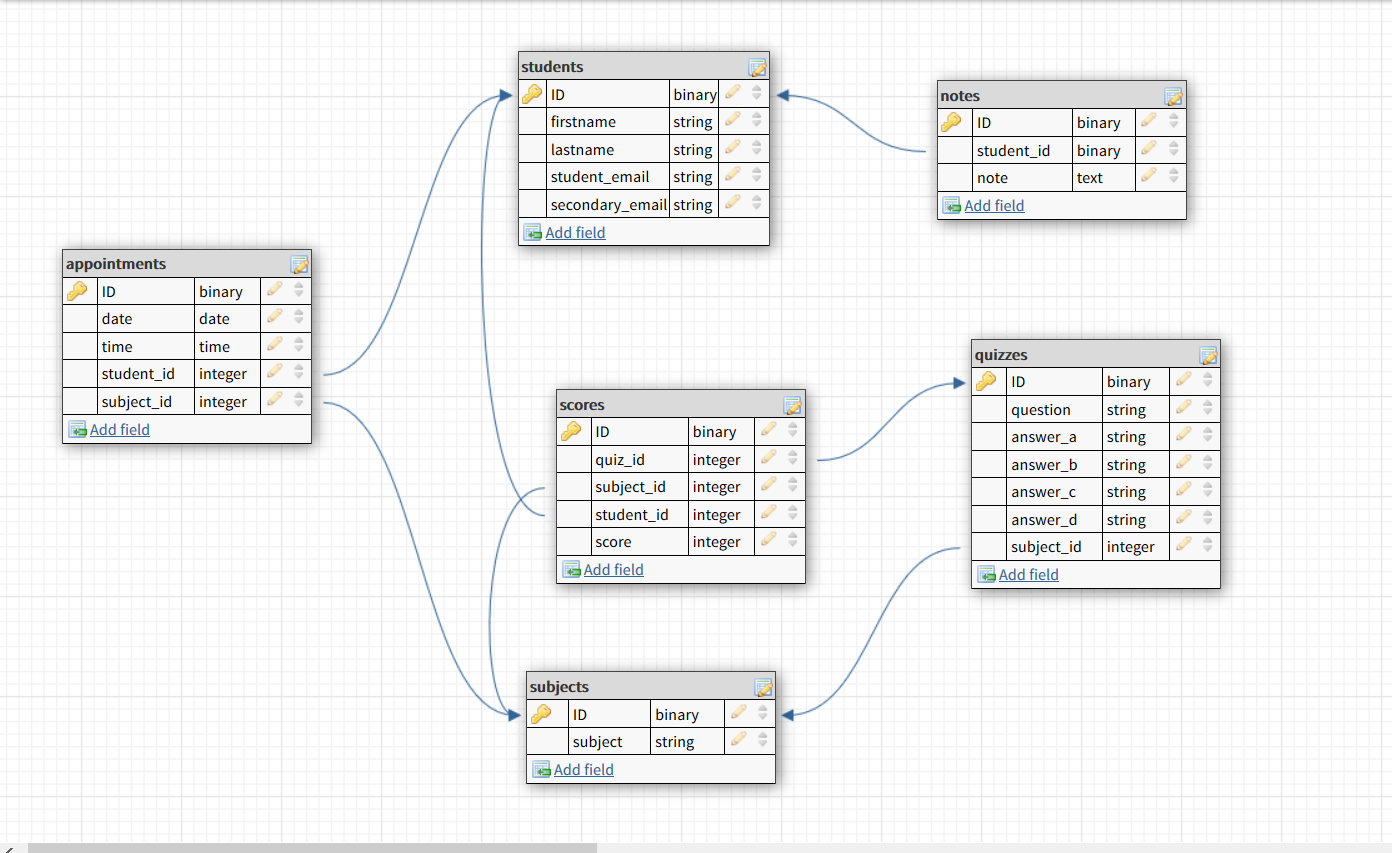
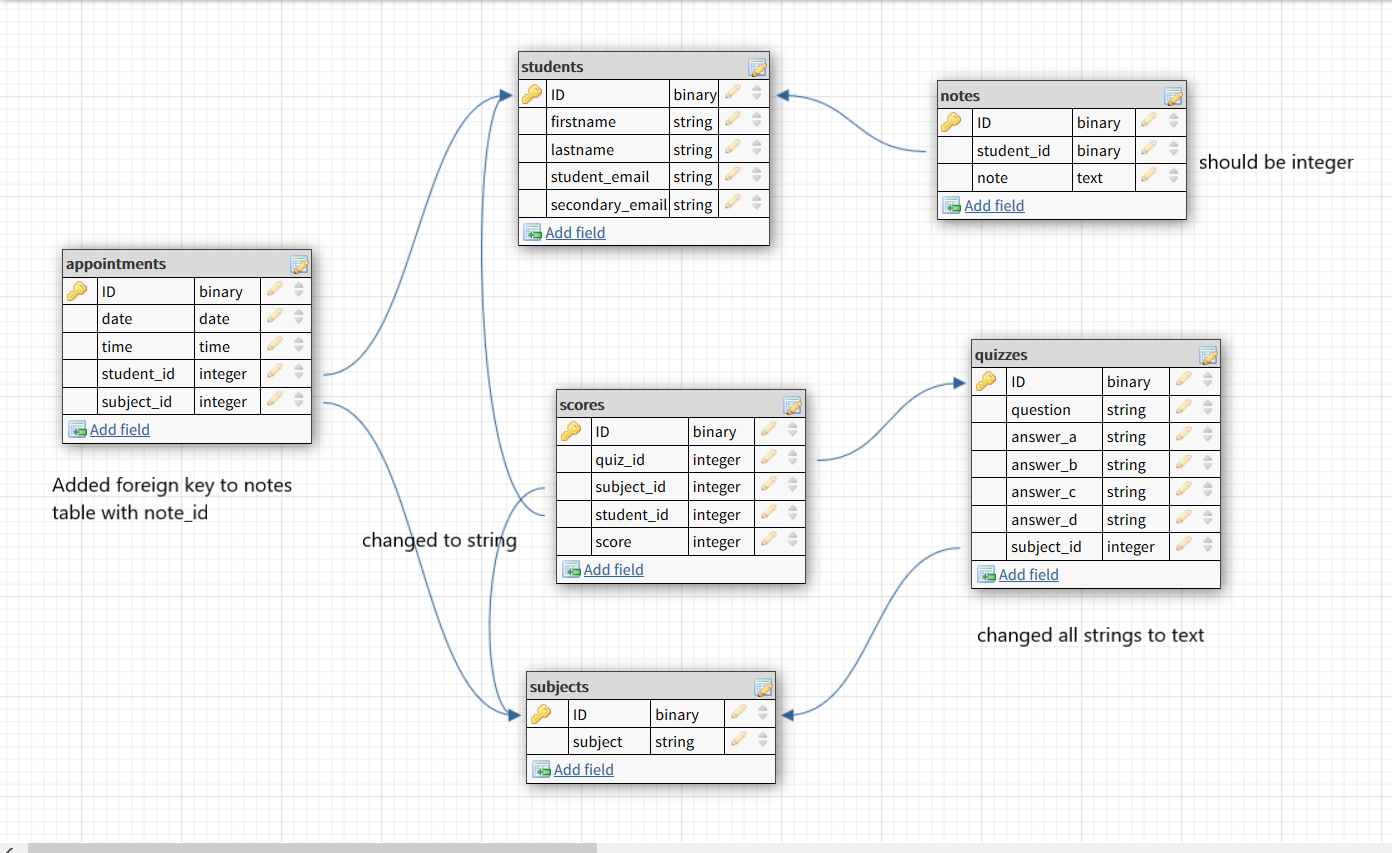
initial readme setup added, DB migrations added

diff --git a/server/data/migrations/development/20200507114928_appointments.js b/server/data/migrations/development/20200507114928_appointments.js
@@ -1,8 +1,34 @@
-
-exports.up = function(knex) {
-  
+exports.up = function (knex, Promise) {
+	return knex.schema.createTable("appointments", (tbl) => {
+		tbl.increments();
+		tbl.date("date").notNullable();
+		tbl.time("time").notNullable();
+		tbl
+			.integer("student_id")
+			.unsigned()
+			.references("id")
+			.inTable("students")
+			.onDelete("RESTRICT")
+			.onUpdate("CASCADE")
+			.notNullable();
+		tbl
+			.integer("subject_id")
+			.unsigned()
+			.references("id")
+			.inTable("subjects")
+			.onDelete("RESTRICT")
+			.onUpdate("CASCADE")
+			.notNullable();
+		tbl
+			.integer("note_id")
+			.unsigned()
+			.references("id")
+			.inTable("notes")
+			.onDelete("RESTRICT")
+			.onUpdate("CASCADE");
+	});
 };
 
-exports.down = function(knex) {
-  
+exports.down = function (knex, Promise) {
+	return knex.schema.dropTableIfExists("appointments");
 };

diff --git a/server/data/migrations/development/20200507114938_scores.js b/server/data/migrations/development/20200507114938_scores.js
@@ -1,8 +1,34 @@
-
-exports.up = function(knex) {
-  
+exports.up = function (knex, Promise) {
+	return knex.schema.createTable("scores", (tbl) => {
+		tbl.increments();
+		tbl
+			.integer("quiz_id")
+			.unsigned()
+			.references("id")
+			.inTable("quizzes")
+			.onDelete("RESTRICT")
+			.onUpdate("CASCADE")
+			.notNullable();
+		tbl
+			.integer("student_id")
+			.unsigned()
+			.references("id")
+			.inTable("students")
+			.onDelete("RESTRICT")
+			.onUpdate("CASCADE")
+			.notNullable();
+		tbl
+			.integer("subject_id")
+			.unsigned()
+			.references("id")
+			.inTable("subjects")
+			.onDelete("RESTRICT")
+			.onUpdate("CASCADE")
+			.notNullable();
+		tbl.string("score").notNullable();
+	});
 };
 
-exports.down = function(knex) {
-  
+exports.down = function (knex, Promise) {
+	return knex.schema.dropTableIfExists("scores");
 };

diff --git a/server/data/migrations/development/20200507114945_quizzes.js b/server/data/migrations/development/20200507114945_quizzes.js
@@ -1,8 +1,22 @@
-
-exports.up = function(knex) {
-  
+exports.up = function (knex, Promise) {
+	return knex.schema.createTable("quizzes", (tbl) => {
+		tbl.increments();
+		tbl.text("question").notNullable();
+		tbl.text("answer_a").notNullable();
+		tbl.text("answer_b").notNullable();
+		tbl.text("answer_c").notNullable();
+		tbl.text("answer_d").notNullable();
+		tbl
+			.integer("subject_id")
+			.unsigned()
+			.references("id")
+			.inTable("subjects")
+			.onDelete("RESTRICT")
+			.onUpdate("CASCADE")
+			.notNullable();
+	});
 };
 
-exports.down = function(knex) {
-  
+exports.down = function (knex, Promise) {
+	return knex.schema.dropTableIfExists("quizzes");
 };

diff --git a/server/data/migrations/development/20200507115018_notes.js b/server/data/migrations/development/20200507115018_notes.js
@@ -1,8 +1,18 @@
-
-exports.up = function(knex) {
-  
+exports.up = function (knex, Promise) {
+	return knex.schema.createTable("notes", (tbl) => {
+		tbl.increments();
+		tbl
+			.integer("student_id")
+			.unsigned()
+			.references("id")
+			.inTable("students")
+			.onDelete("RESTRICT")
+			.onUpdate("CASCADE")
+			.notNullable();
+		tbl.text("note").notNullable();
+	});
 };
 
-exports.down = function(knex) {
-  
+exports.down = function (knex, Promise) {
+	return knex.schema.dropTableIfExists("notes");
 };

diff --git a/server/data/migrations/development/20200507114918_students.js b/server/data/migrations/development/20200507114918_students.js
@@ -1,8 +1,13 @@
-
-exports.up = function(knex) {
-  
+exports.up = function (knex, Promise) {
+	return knex.schema.createTable("students", (tbl) => {
+		tbl.increments();
+		tbl.string("firstname").notNullable();
+		tbl.string("lastname").notNullable();
+		tbl.string("student_email").notNullable().unique();
+		tbl.string("secondary_email").notNullable();
+	});
 };
 
-exports.down = function(knex) {
-  
+exports.down = function (knex, Promise) {
+	return knex.schema.dropTableIfExists("students");
 };

diff --git a/server/data/migrations/development/20200507114957_subjects.js b/server/data/migrations/development/20200507114957_subjects.js
@@ -1,8 +1,10 @@
-
-exports.up = function(knex) {
-  
+exports.up = function (knex, Promise) {
+	return knex.schema.createTable("subjects", (tbl) => {
+		tbl.increments();
+		tbl.string("subject").notNullable();
+	});
 };
 
-exports.down = function(knex) {
-  
+exports.down = function (knex, Promise) {
+	return knex.schema.dropTableIfExists("subjects");
 };

diff --git a/README.md b/README.md
@@ -1,0 +1,20 @@
+# [Tutr App Backend]
+
+- [App Client Home]
+- [Backend Base URL]
+
+---
+
+## Additional Documentation
+
+[Frontend Documentation](https://github.com/cotikor/tutr/blob/master/client/README.md).
+
+
+
+
+## Endpoints
+### Sanity Check
+* GET /sanity
+  * returns object with message "Sanity Check"
+
+---
